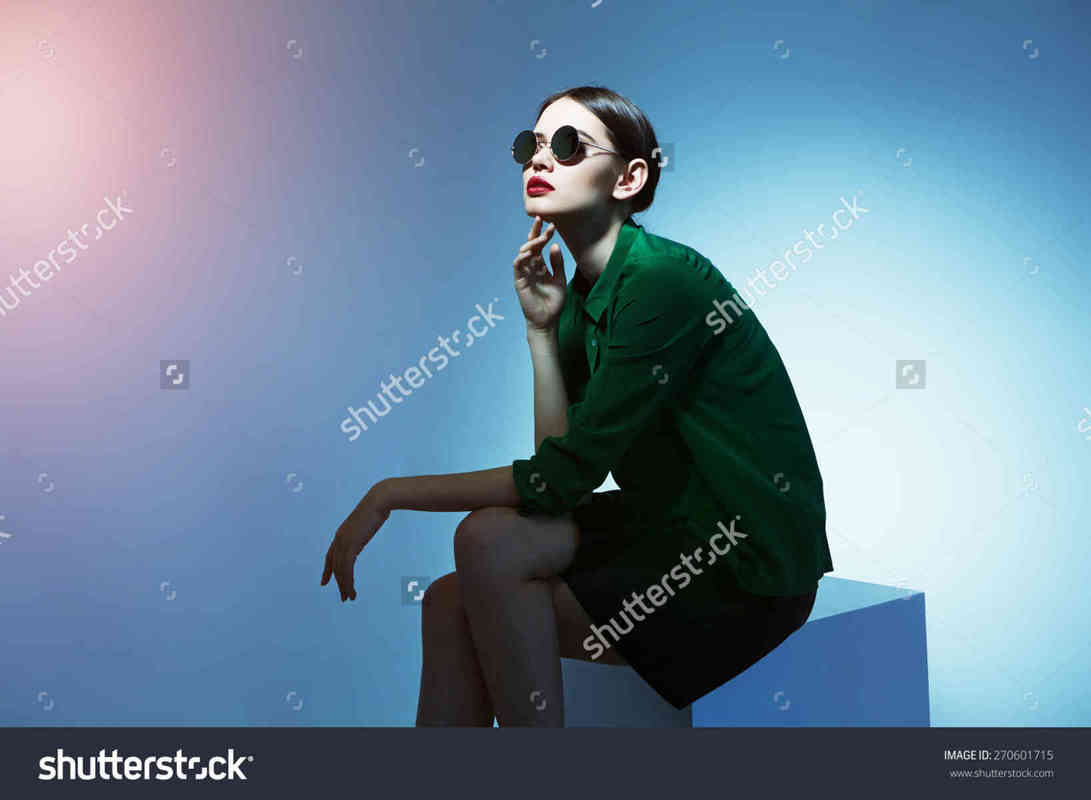
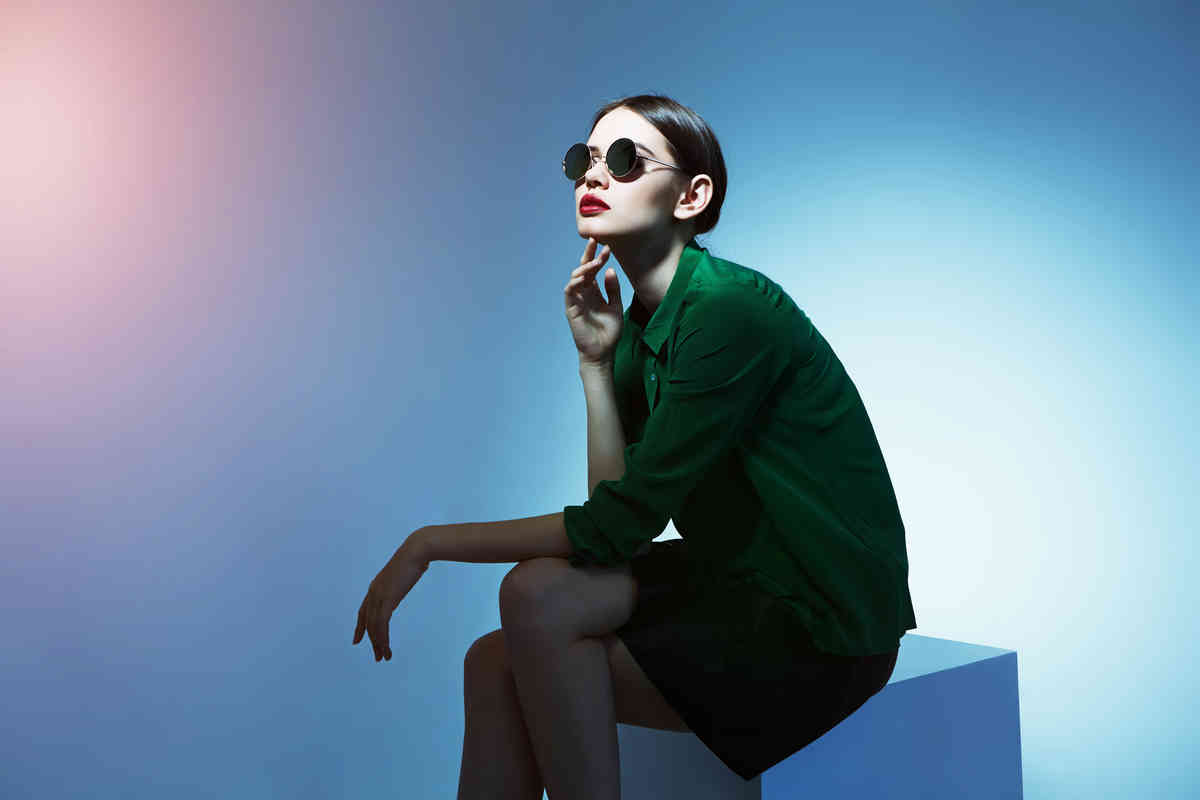
Change opacity for white on company modals to .75.  Replace planet image for PR. Add final compressed image for Fashion and Entertainment.  Fix hover-over for box-close on Roseann modal.

diff --git a/index.htm b/index.htm
@@ -253,7 +253,7 @@
                                 "modal">
                             <div class="text-overlay">
                                 <span class="planet-label theme-white">Public Relations</span>
-                            </div><img alt="planet" class="planet" src="img/planets/callisto.png"></div>
+                            </div><img alt="planet" class="planet" src="img/planets/japetus.png"></div>
                         <div class="parallax-layer parallax-layer-10" data-target="#companyModal2" data-toggle=
                                 "modal">
                             <div class="text-overlay">
@@ -335,7 +335,7 @@
                             </div>
                             <div class="planet-item" id="planet-pr">
                                 <img alt="planet" class="n" data-target="#companyModal14" data-toggle="modal" src=
-                                        "img/planets/callisto.png">
+                                        "img/planets/japetus.png">
                                 <div class="carousel-caption planet-caption">
                                     <h3>PR</h3>
                                 </div>
@@ -668,7 +668,7 @@
     <div class="modal-content" id="modal-fashion">
         <div class="close-modal" data-dismiss="modal">
             <div class="box-close hvr-pulse">
-                <i aria-hidden="true" class="fa fa-minus-square" id="fa-grey"></i>
+                <i aria-hidden="true" class="fa fa-minus-square" ></i>
             </div>
         </div>
         <div class="container">
@@ -676,7 +676,7 @@
                 <div class="col-lg-8 col-lg-offset-2">
                     <div class="modal-body">
                         <h2 class="h2-medium"><span class="theme-red">CORR</span> <span class=
-                                                                                                "theme-grey h2-medium">Fashion</span></h2>
+                                                                                                "theme-dark-grey h2-medium">Fashion</span></h2>
                         <hr class="globe-primary">
                         <!--<span class="theme-red text-italic left-span text-margin-bottom span-subheader">What Is CORR Fashion?</span>-->
                         <hr class="hr-span">
@@ -752,7 +752,7 @@
 <div aria-hidden="true" class="company-modal modal fade" id="companyModal13" role="dialog" tabindex="-1">
     <div class="modal-content" id="modal-entertainment">
         <div class="close-modal" data-dismiss="modal">
-            <div class="box-close hvr-pulse">
+            <div class="box-close hvr-pulse theme-grey">
                 <i aria-hidden="true" class="fa fa-minus-square"></i>
             </div>
         </div>
@@ -761,7 +761,7 @@
                 <div class="col-lg-8 col-lg-offset-2">
                     <div class="modal-body">
                         <h2 id="header-entertainment"><span class="theme-red">CORR</span> <span class=
-                                                                                                        "theme-grey h2-medium">Entertainment</span></h2>
+                                                                                                        "theme-dark-grey h2-medium">Entertainment</span></h2>
                         <hr class="globe-primary">
                         <!--<span class="theme-red text-italic left-span text-margin-bottom span-subheader" id="subheader-entertainment">What Is CORR Entertainment?</span>-->
                         <hr class="hr-span">

diff --git a/css/styles.css b/css/styles.css
@@ -1299,6 +1299,7 @@ img::-moz-selection {
 
 .parallax-frame {
     background: url('../img/bg-space-xl.jpg') fixed;
+    background-size: contain;
 }
 
 .parallax-root {
@@ -2516,10 +2517,10 @@ hr.globe-primary:after {
 .bio-modal .close-modal {
     color: hsla(357, 79%, 47%, 1);
 }
-.company-modal .close-modal:hover,
-.bio-modal .close-modal:hover {
-    opacity: .3;
-}
+/*.company-modal .close-modal:hover,*/
+/*.bio-modal .close-modal:hover {*/
+    /*opacity: .3;*/
+/*}*/
 #companyModal6 .close-modal:hover,
 #companyModal7 .close-modal:hover,
 #companyModal8 .close-modal:hover {
@@ -2633,7 +2634,7 @@ hr.globe-primary:after {
     background-color: black;
 }
 .company-modal > .modal-content > .container {
-    background-color: hsla(0, 0%, 100%, .85);
+    background-color: hsla(0, 0%, 100%, .75);
 }
 .references {
     font-size: 2.3vh;
@@ -4073,6 +4074,7 @@ hr.globe-primary:after {
 
         .parallax-frame {
             background: url('../img/bg-space-med.jpg') fixed;
+            background-size: contain;
         }
 
         #text-carousel {
@@ -4504,6 +4506,7 @@ hr.globe-primary:after {
 
         .parallax-frame {
             background: url('../img/bg-space-lrg.jpg') fixed;
+            background-size: contain;
         }
         .photo-container .text-overlay h3 {
             font-size: 22px;
@@ -4628,6 +4631,7 @@ hr.globe-primary:after {
         }
         .parallax-frame {
             background: url('../img/bg-space-xl.jpg') fixed;
+            background-size: contain;
         }
 
         .photo-container {
